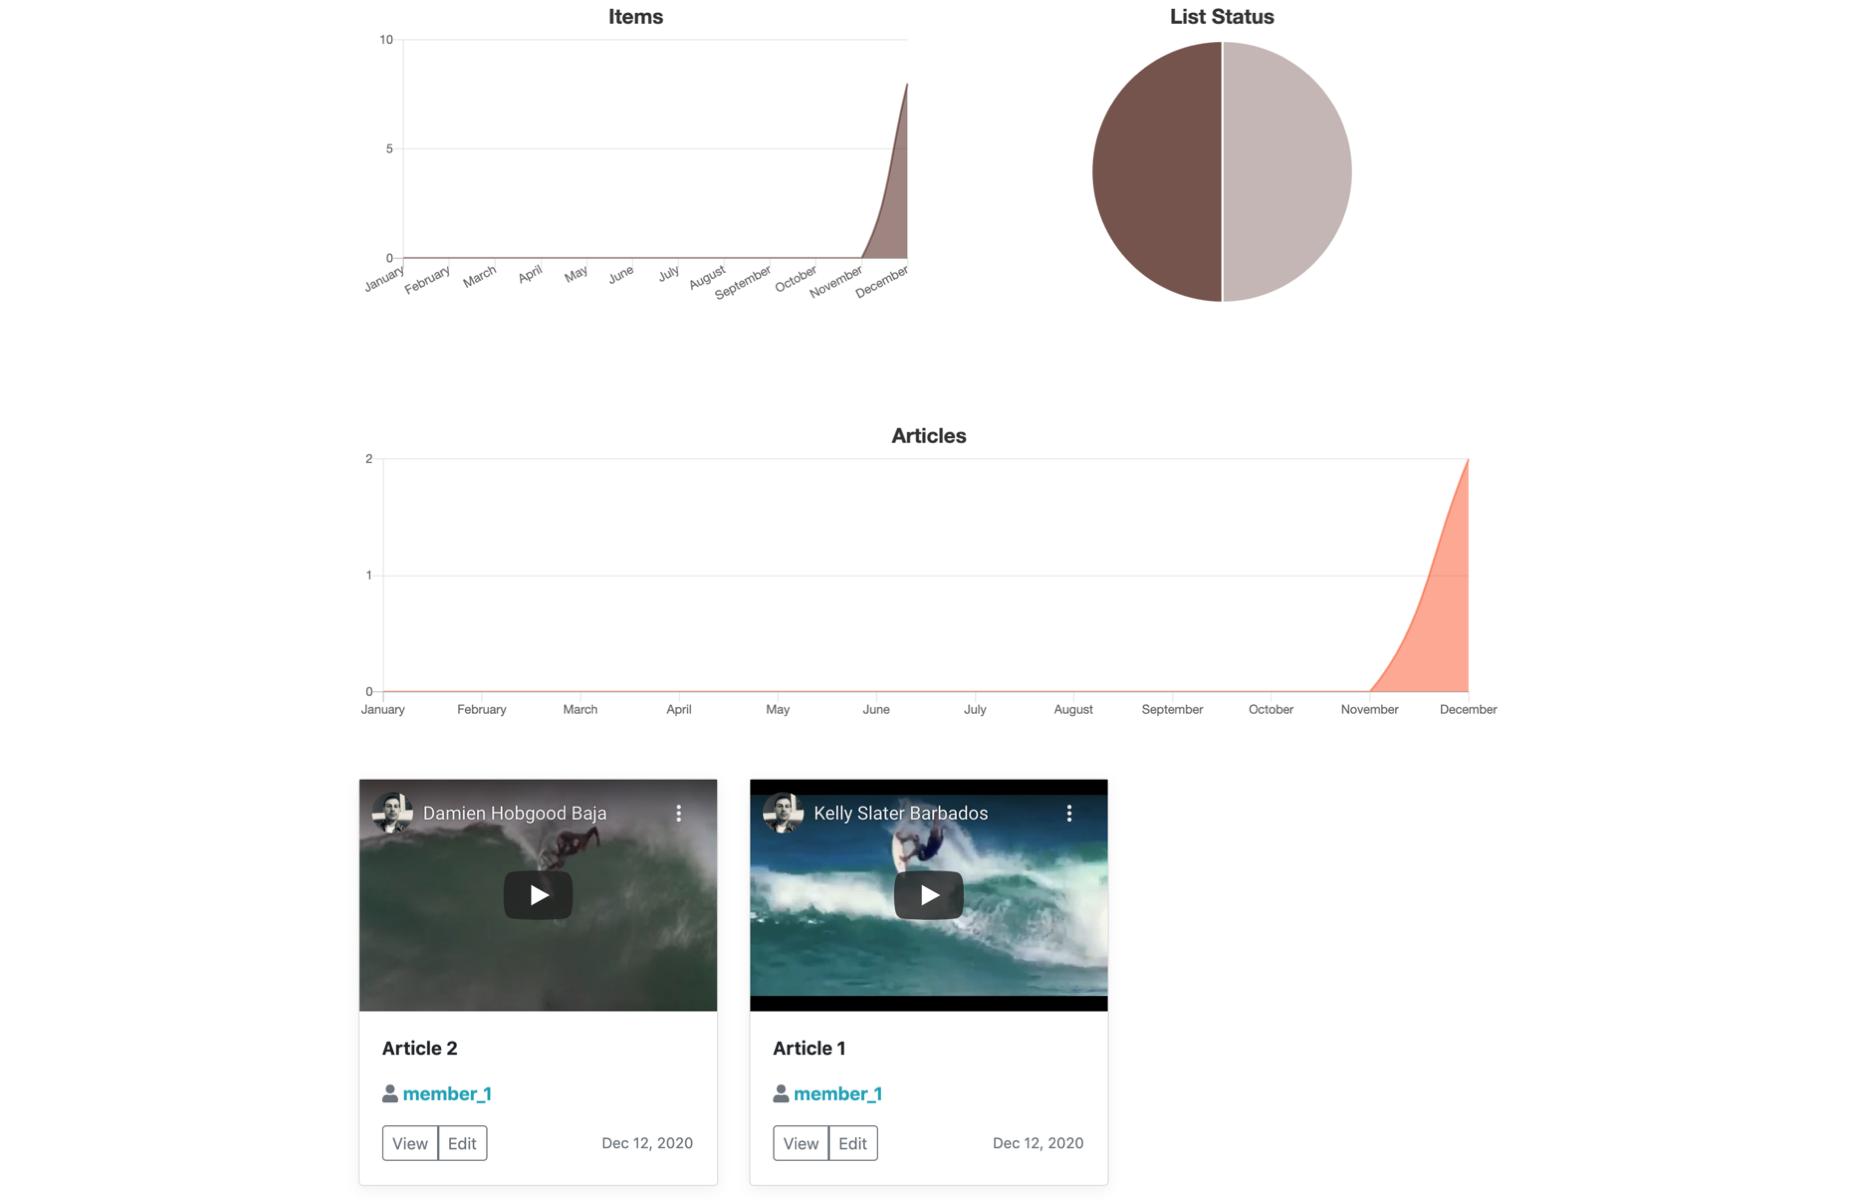
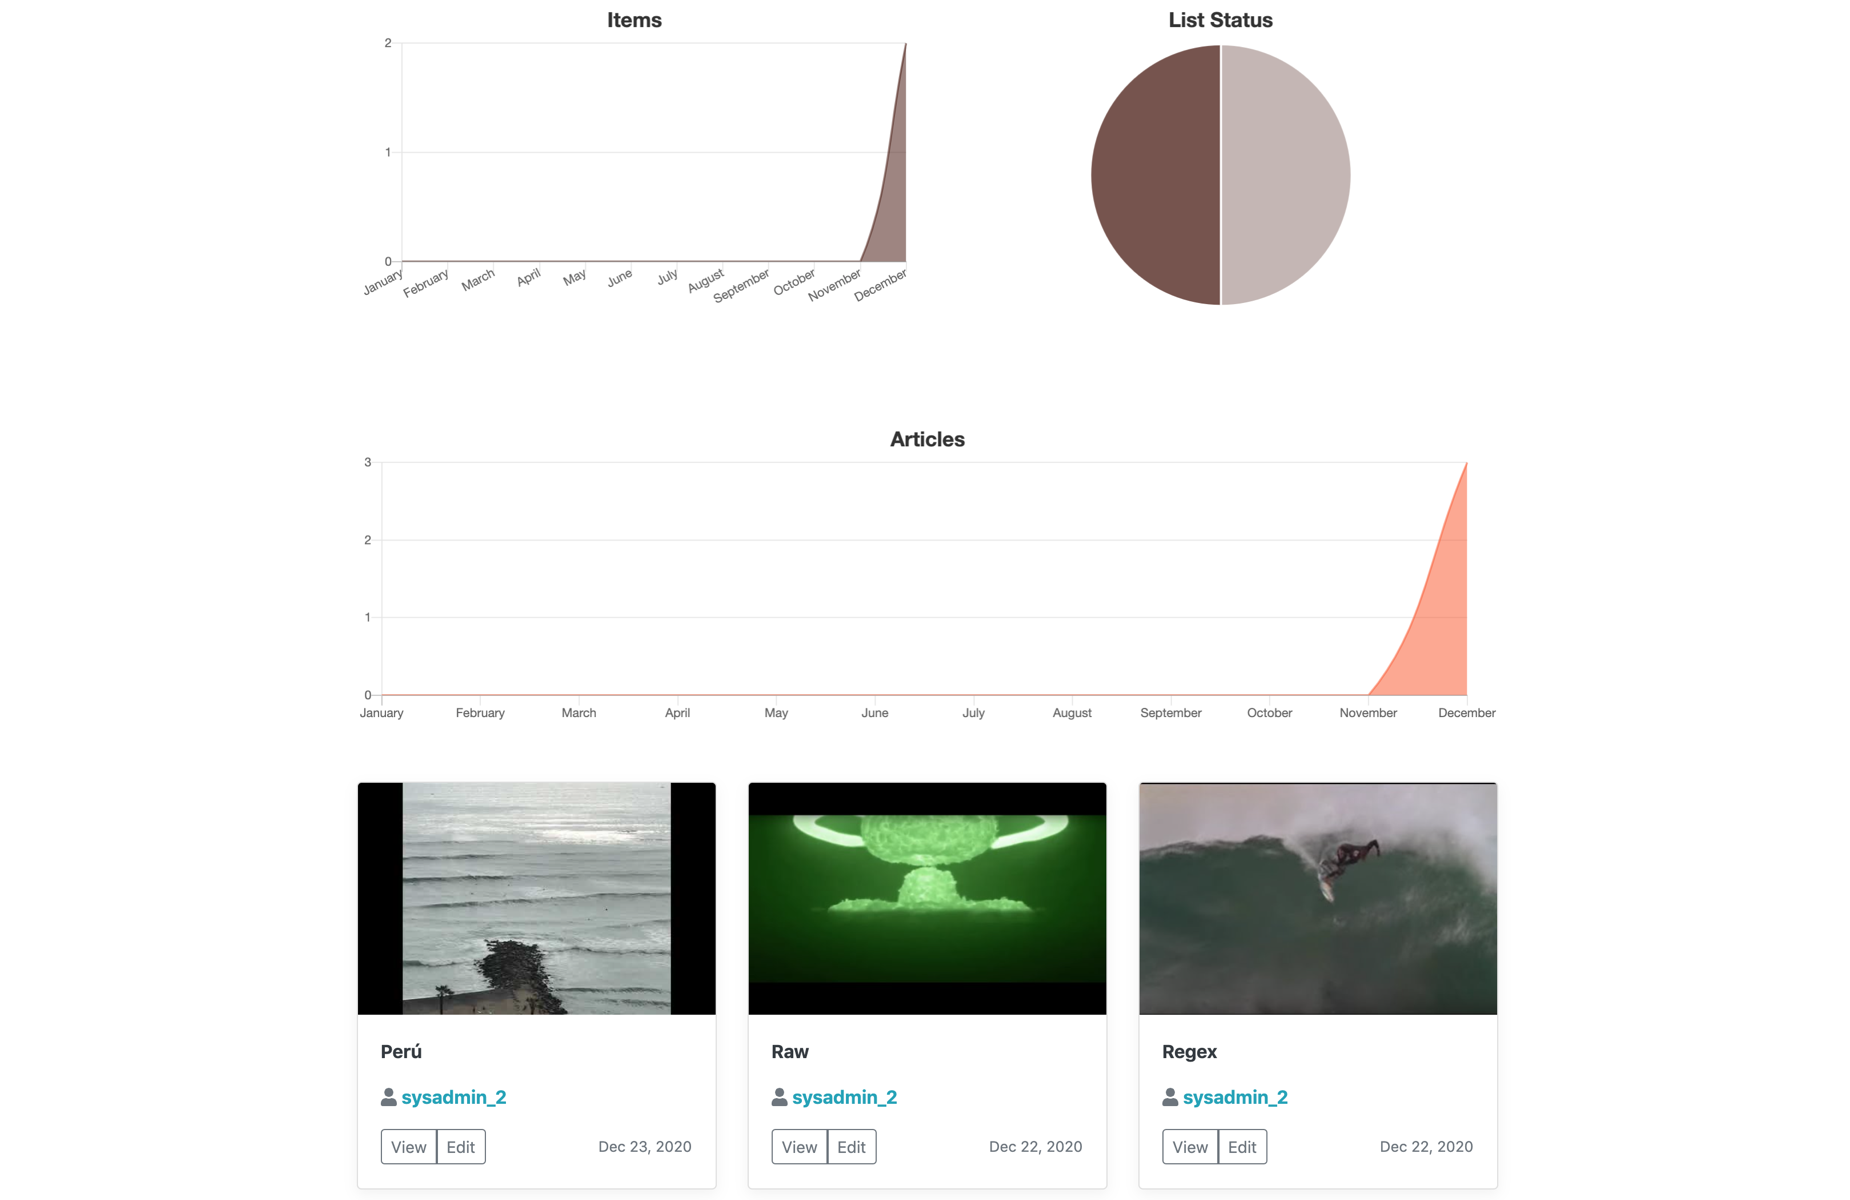
Added thumb method to embeds
https://bit.ly/37uKrsM .. my answer

diff --git a/app/models/article.rb b/app/models/article.rb
@@ -10,8 +10,7 @@ class Article < ApplicationRecord
 
   validates :title, presence: true
 
-  before_save :iframe
-
+  #show
   def iframe
     if self.embed.present?
       ### YouTube
@@ -23,6 +22,21 @@ class Article < ApplicationRecord
         "<iframe src='https://www.youtube.com/embed/#{self.embed[17..27]}' frameborder='0' allow='accelerometer; autoplay; clipboard-write; encrypted-media; gyroscope; picture-in-picture' allowfullscreen></iframe>"
       ### Validate + Generate iframe for whatever other embeds you want to allow (Google Maps, Vimeo, etc)
       # elsif
+      else
+        self.embed = nil
+      end
+    end
+  end
+
+  #_articles
+  def thumb
+    if self.embed.present?
+      ### YouTube
+      ## Each YouTube video has 4 generated images [ /0 .. /3 ]
+      if self.embed =~ /^(https?:\/\/)?(www\.)?youtube.com\/watch\?v=/
+        "<img alt='Media' class='card-img-top' src='http://img.youtube.com/vi/#{self.embed[32..42]}/0.jpg' />"
+      elsif self.embed =~ /^(https?:\/\/)?(www\.)?youtu.be\//
+        "<img alt='Media' class='card-img-top' src='http://img.youtube.com/vi/#{self.embed[17..27]}/0.jpg' />"
       else
         self.embed = nil
       end
